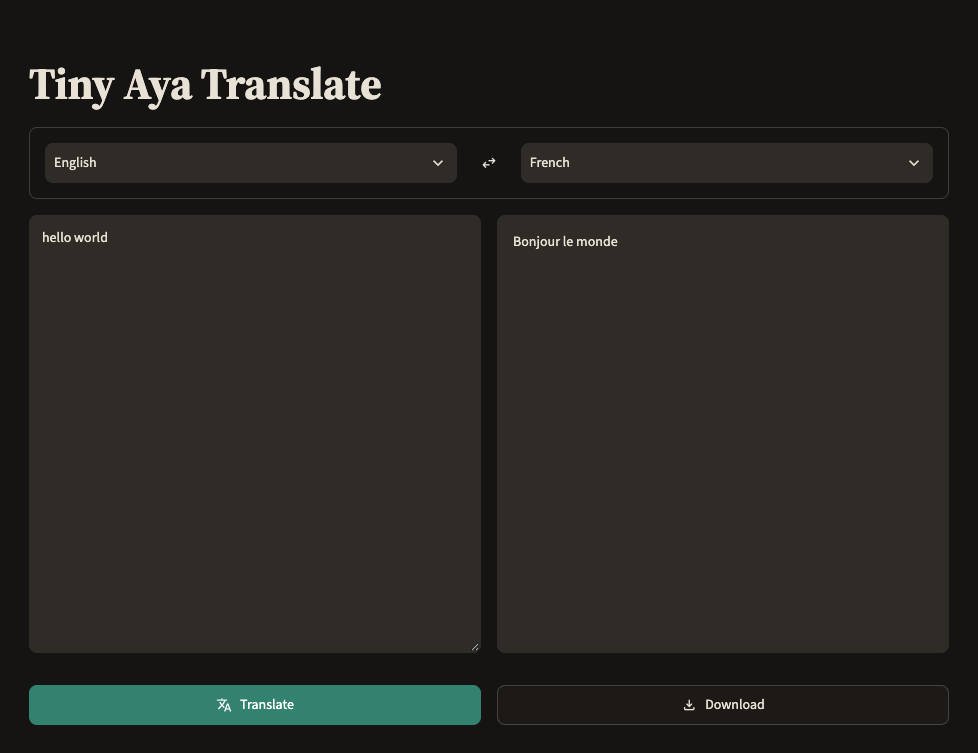
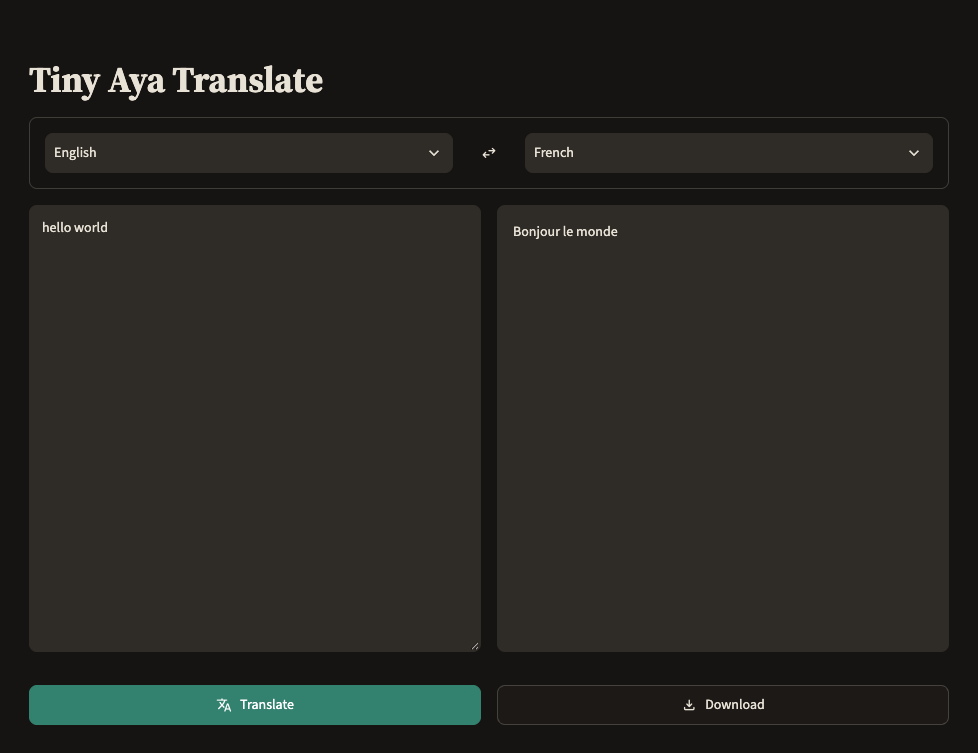
docs: regenerate the hero screenshot for the 36px title, 447 panels and flex language row
Same 978x753 frame as the docked-controls capture — the h1 container
still starts at 96 and the buttons still end at 783 — with the interior
moved: the serif title at 36px, the panels 9px taller, the swap a true
40px between two equal pickers. Captured at a verified 1080x839 on the
right portrait display, factor 1.0, untagged and byte-exact on page
(#161412), both panels (#2f2b27) and both ends of the Translate fill
(#33826f); saved with an sRGB profile. The Screenshots section records
two new mechanics: intensive timer throttling in a long-hidden tab, and
same-origin iframes as a way to lay the page out at other widths without
touching the user's window.

Claude-Session: https://claude.ai/code/session_016EZU9GuiLPZE6pKxLfyfxc

Changed region(s): [[0.0307, 0.0916, 0.9816, 0.336]]

diff --git a/CLAUDE.md b/CLAUDE.md
@@ -78,7 +78,7 @@ When working with Python, invoke the relevant `/astral:<skill>` for uv, ty, and 
 
 ## Screenshots
 
-`assets/screenshot.png` is the README hero image: the page in dark mode, English → French, `hello world` → `Bonjour le monde`. Regenerated 2026-09-13 at **978×753** after the controls were docked in `st.bottom` (the earlier 2026-09-13 capture was 978×749 after the Document tab's removal; the 2026-09-12 capture was 978×805 with the tab strip in it; the 2026-09-11 Reading Room capture 978×843 with the caption as well; the 2026-08-08 design-pass capture 978×833 under stock) — it shows the serif title with nothing between it and the language row, the centred swap, the settled output as full-contrast `st.code` set in Source Sans (the theme's `codeFont`; it is **not monospace** any more, so do not read the sans output as a regression), and icons on Translate/Download. Content width is 920px with ~29px side margins, the h1 box top 38px below the image top and 28px of image below the buttons. Nothing is focused in it. The frame is `[h1.top − 38, buttons.bottom + 28]` vertically and `[content.left − 29, content.right + 29]` horizontally, read off `getBoundingClientRect` at capture time — in the 1080-wide viewport that is `[51, 58, 1029, 811]` (h1 at 96, buttons' bottom at 783; it was `[51, 58, 1029, 807]` with the row in the flow, buttons' bottom 778.8) — so the height follows the layout: the caption's removal took the tab strip from row 179 to 141 and the image from 843 to 805, the tab strip's removal took the image from 805 to 749, the strip plus its 16px gap, and the docking took it from 749 to 753 — the panels lost 12 (450 → 438) and the seam under them gained 16 (the main block's 16px padding plus the bar's 16, against one 16px gap), so the bottom 28px of the frame is now the bar's own page-coloured padding, indistinguishable from page. Regenerate it whenever the theme or the page layout changes. It is **binary, so nothing in CI can catch it going stale** — it silently advertised the removed Nord theme until pixels were sampled and colour-managed. Expect the PNG to read warm and brown-tinted against GitHub's cool `#0d1117` README ground: that is the palette, not a colour-management fault. Every trap below produces a plausible-looking but wrong image, which is why they are worth writing down.
+`assets/screenshot.png` is the README hero image: the page in dark mode, English → French, `hello world` → `Bonjour le monde`. Regenerated 2026-09-14 at **978×753** after the best-practices pass — the title at 36px (`headingFontSizes`), the panels at 447, the language row a flex row with a true 40px swap — the same frame as the 2026-09-13 docked-controls capture because the h1 container still starts at 96 and the buttons still end at 783 (the capture was 978×753 on 2026-09-13 after the controls were docked in `st.bottom` (the earlier 2026-09-13 capture was 978×749 after the Document tab's removal; the 2026-09-12 capture was 978×805 with the tab strip in it; the 2026-09-11 Reading Room capture 978×843 with the caption as well; the 2026-08-08 design-pass capture 978×833 under stock) — it shows the serif title with nothing between it and the language row, the centred swap, the settled output as full-contrast `st.code` set in Source Sans (the theme's `codeFont`; it is **not monospace** any more, so do not read the sans output as a regression), and icons on Translate/Download; since 2026-09-14 the title is 36px rather than 44 and the panels 447 tall rather than 438, so the seam under the title is 9.6px tighter and the panels 9px taller within the same frame. Content width is 920px with ~29px side margins, the h1 box top 38px below the image top and 28px of image below the buttons. Nothing is focused in it. The frame is `[h1.top − 38, buttons.bottom + 28]` vertically and `[content.left − 29, content.right + 29]` horizontally, read off `getBoundingClientRect` at capture time — in the 1080-wide viewport that is `[51, 58, 1029, 811]` (h1 at 96, buttons' bottom at 783; it was `[51, 58, 1029, 807]` with the row in the flow, buttons' bottom 778.8) — so the height follows the layout: the caption's removal took the tab strip from row 179 to 141 and the image from 843 to 805, the tab strip's removal took the image from 805 to 749, the strip plus its 16px gap, and the docking took it from 749 to 753 — the panels lost 12 (450 → 438) and the seam under them gained 16 (the main block's 16px padding plus the bar's 16, against one 16px gap), so the bottom 28px of the frame is now the bar's own page-coloured padding, indistinguishable from page. Regenerate it whenever the theme or the page layout changes. It is **binary, so nothing in CI can catch it going stale** — it silently advertised the removed Nord theme until pixels were sampled and colour-managed. Expect the PNG to read warm and brown-tinted against GitHub's cool `#0d1117` README ground: that is the palette, not a colour-management fault. Every trap below produces a plausible-looking but wrong image, which is why they are worth writing down.
 
 - Serve it on a **free port**. Since 2026-09-14 the project's own port is **pinned to 8510** in `config.toml`, and a file-defined port counts as manually set: a busy 8510 now exits with `Port 8510 is not available` (verified: second launch, exit 1) instead of the DEBUG-level fall-through the rest of this bullet describes, which is why it was pinned — the README names the port, and `test_server_port_is_pinned` guards both. A capture server beside a running one passes `--server.port <other>` explicitly; the flag overrides the file. The history below predates the pin and still applies to any server started with a flag or from another project. `uv run streamlit run streamlit_app.py --server.port 8502 --server.headless true` — or, as the docked-controls capture did, use a server that is already running this file: 8501 was this project's own app that afternoon (a user launch from this repo's venv, no flags), so `ps -o command= -p <pid>` from the `lsof` listing tells you which script a port serves, and the toolbar is hidden from the page either way. 8501 on this machine is usually another project's app, and Streamlit will happily start on a different port without saying so loudly — on 2026-09-12 that is exactly what occupied 8502: a ten-hour-old `streamlit run streamlit_app.py` with no `--server.port`, fallen through from a busy 8501, so the capture ran on 8503 — and again on 2026-09-13, with 8501 and 8502 both taken. Check with `lsof -nP -iTCP:<port> -sTCP:LISTEN` and take the next free one rather than killing what is there. Note that `--server.headless true` is the one flag that makes the *server* reach out: `bootstrap.py` calls `net_util.get_external_ip()` (a GET to `checkip.amazonaws.com`) to print the "External URL" line, only in headless mode — the documented run command does not pass it, so a user's launch makes no such request
 - The shot needs a **real translation**, not an empty app — but the old reason for saying so is gone. It used to be that the output `text_area` was `disabled=True`, so genuine output rendered in the same muted grey as placeholder text; settled output now goes through `render_output`/`st.code` and reads at full contrast, and the empty-state placeholder is `Translation appears here`. Weights are already in `~/.cache/huggingface` (~3.6 GB — `du -sh` prints `3.3G` because it reports GiB; the rest of the repo quotes 3.6 GB and that is the same number), so the Translate click costs seconds rather than a download
@@ -91,6 +91,7 @@ When working with Python, invoke the relevant `/astral:<skill>` for uv, ty, and 
 - Sample the *fill*, not the centre, when spot-checking a button — dead centre is the label glyph, and white-on-fill anti-aliasing returns a washed-out tint (a pink, under stock's red) that looks like a colour bug
 - Pin the theme before capturing: `localStorage.setItem('stActiveTheme-/-v2', '"Dark"')` then reload. The key is versioned (`-v2`), and leaving it at `"System"` means an OS appearance change mid-session silently reshoots in light
 - Buttons now carry icons, so `button.innerText` is `"translate|Translate"` — selecting a button by its label text fails. Use the key-derived class Streamlit emits, `.st-key-translate button`
+- The 2026-09-14 capture went exactly as the docked-controls one: the session's tab landed as index 9 in the user's main 1920×960 window (`createIfEmpty`, as predicted), was activated by index, the window went to `{1920, 30, 3000, 1046}` by id for a verified 1080×839 (`scrollHeight === clientHeight === 839`), the `screenshot` came back at factor **1.0**, the `zoom` PNG came back untagged and byte-exact on all five samples (page, both panels, both ends of the Translate fill), and the window went back to `{0, 30, 1920, 990}` with tab 1 restored. Two things it added to the record: a background tab that has been hidden for a while is under Chrome's *intensive* throttling — a `setInterval` fires about once a minute, so any sampling loop must run in a foreground tab or be replaced by one-shot calls; and same-origin `<iframe>`s of the app inside the session's tab are a way to lay the page out at 1080/800/640/520/400 wide **without touching the user's window at all** — media queries key on the iframe's own viewport, and `getBoundingClientRect` inside it is exact (that is how the language row was measured before and after its flex-row change)
 - The 2026-09-11, 2026-09-12 and 2026-09-13 regenerations confirmed the checks worth keeping, with the values they now take: the neutrals land **byte-exact** (`#161412` page, `#2f2b27` both panels) and so does the button fill, `#33826f` sampled at the fill rather than the glyph, with **zero clip residue**. Under stock the same checks read `#0e1117` / `#262730` after the sRGB conversion, and the primary clipped to `#f54b4c`. Both panels reading the same value is also a live check on the `codeBackgroundColor` pin — the input `text_area` and the output `st.code` are the same shade side by side, which is the whole point of it — and the sans output panel is the live check on `codeFont`
 
 ## Conventions
